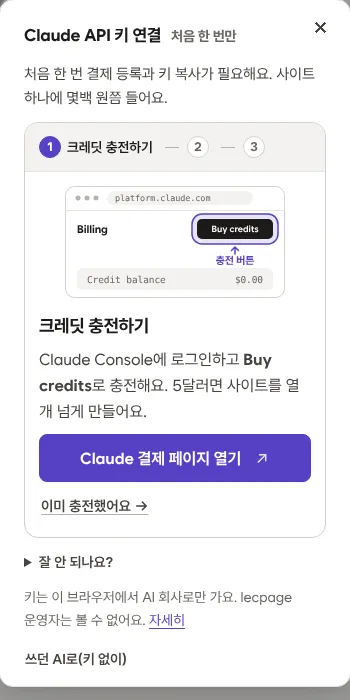
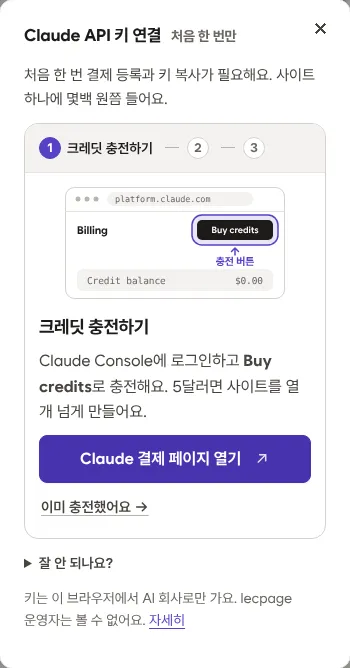
도움말 그림을 지금 화면으로 다시 찍음(연결 동의 창을 거치게 찍기 스크립트 고침), 연수 정보의 주최·문의도 길면 줄을 바꿔 다 보이게
Claude-Session: https://claude.ai/code/session_01HqP3sDeio7vDaD8gojGxBH

diff --git a/app/src/pages/steps/studio/Info.jsx b/app/src/pages/steps/studio/Info.jsx
@@ -9,7 +9,7 @@ import { focusIn } from './Outline.jsx';
 // 고칠 때마다 버전 기록에 남음(change의 kind 'info', 잇따른 수정은 하나로). 일정·강사가 여럿이면 줄도 여럿.
 
 const FACT_OF = { title: ['연수명', '제목', '연수 제목'], date: ['날짜', '일시', '연수 날짜'], time: ['시간', '시각', '일시'], venue: ['장소'], instructor: ['강사', '강사명'], subtitle: ['부제', '부제목'], organizer: ['주최', '주관', '주최·주관'], contact: ['문의', '연락처', '문의처'] };
-const OPTIONAL = [['subtitle', '부제', 400, true], ['organizer', '주최', 120], ['contact', '문의', 120]];
+const OPTIONAL = [['subtitle', '부제', 400, true], ['organizer', '주최', 120, true], ['contact', '문의', 120, true]];
 const DAY = '일월화수목금토';
 const dayOf = (d) => { const m = /^(\d{4})-(\d{2})-(\d{2})$/.exec(d || ''); return m ? DAY[new Date(Date.UTC(+m[1], +m[2] - 1, +m[3])).getUTCDay()] : ''; };
 /** 일시 한 줄: '12월 24일(목) 14:00~17:00' */

diff --git a/app/src/styles/screens.css b/app/src/styles/screens.css
@@ -387,7 +387,7 @@ dialog.join-big::backdrop{background:var(--bg)}
 .prop>dt label{cursor:pointer}
 .prop>dd{margin:0;display:grid;gap:1px;min-width:0;padding:1px 0}
 .prop-in,.prop-v{display:block;width:100%;min-height:34px;margin:0;padding:6px 8px;border:1px solid transparent;border-radius:var(--r-xs);background:transparent;color:var(--ink);font:inherit;font-size:.93rem;line-height:1.45;text-align:left;font-variant-numeric:tabular-nums;transition:background .12s,border-color .12s,box-shadow .12s}
-textarea.prop-in{resize:none;overflow:hidden}
+textarea.prop-in{resize:none;overflow:hidden;overflow-wrap:anywhere}
 .prop-in:hover,.prop-v:hover{background:var(--sunk)}
 .prop-in:focus{outline:none;background:var(--card);border-color:var(--accent);box-shadow:0 0 0 3px color-mix(in srgb,var(--accent) 22%,transparent)}
 .prop-v{cursor:pointer}
